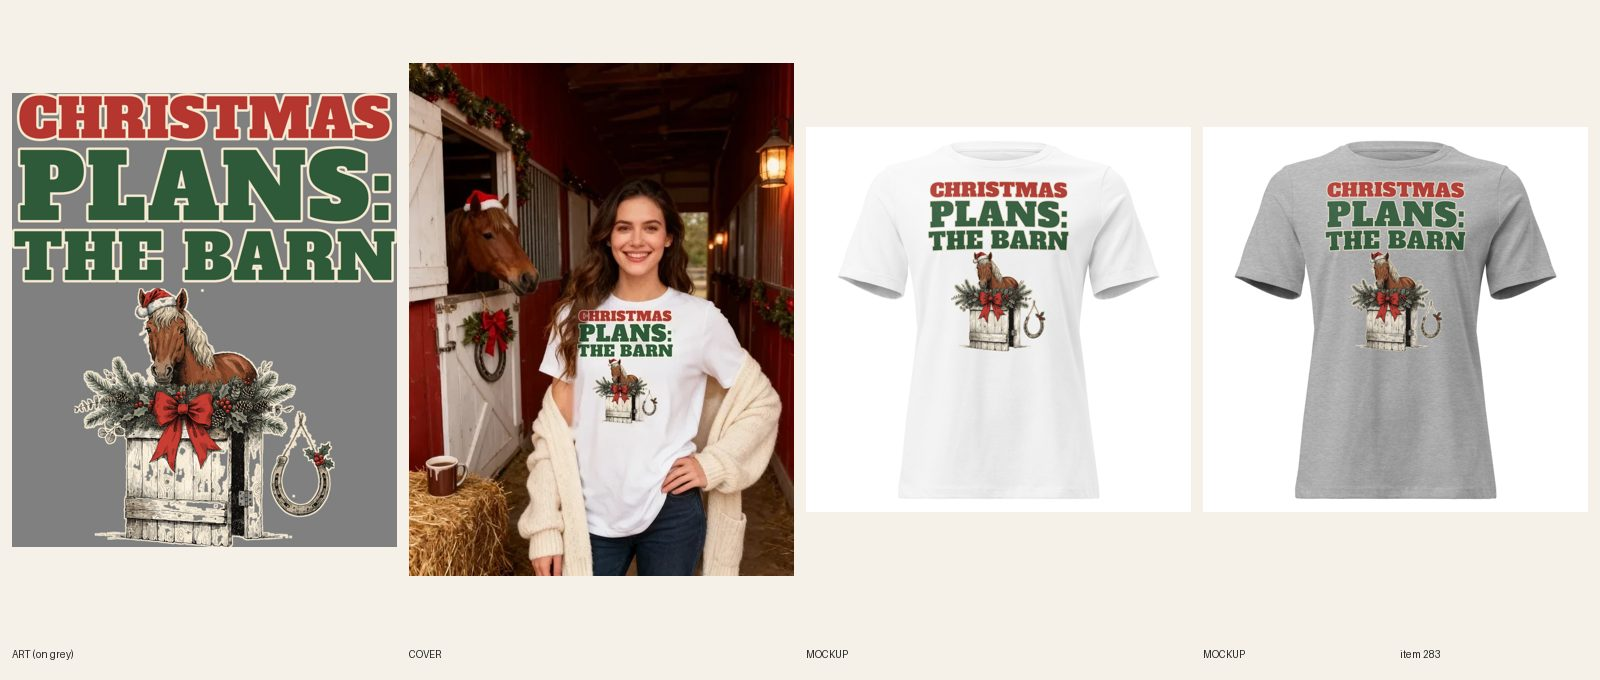
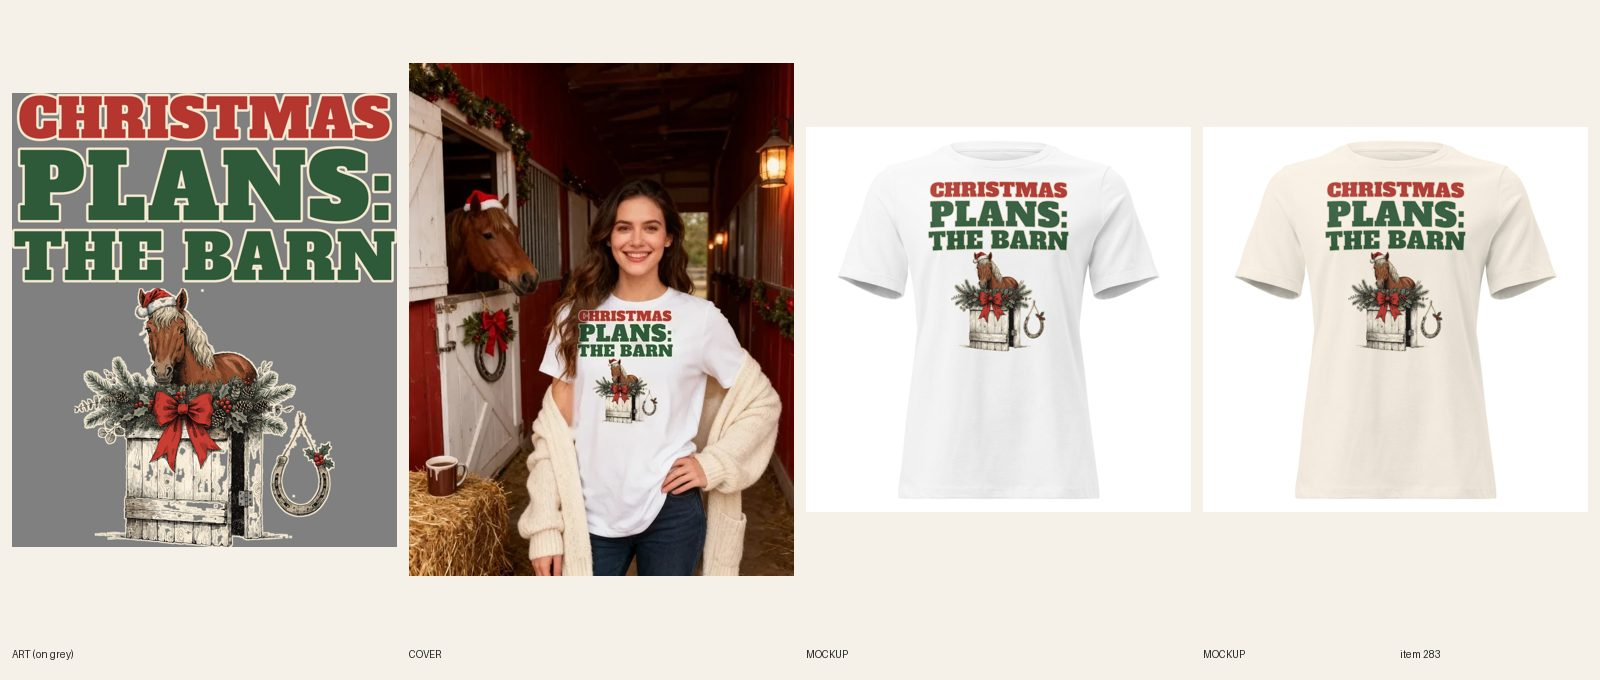
[A] review 283

Changed region(s): [[0.75, 0.1853, 0.9688, 0.7412]]

diff --git a/docs/pipeline/283-christmas-deck-the-stalls.md b/docs/pipeline/283-christmas-deck-the-stalls.md
@@ -1,4 +1,4 @@
-status: REDO
+status: REVIEW
 lane: A
 type: new
 id: 283
@@ -32,3 +32,4 @@ kd: 56
 - 2026-10-18 04:07 UTC builder [A]: BUILT. Words per the LINE REWRITE: 'Christmas Plans: The Barn'. Art: 1 Recraft call ($0.04, picture only: chestnut horse in a Santa hat over a garland-wrapped stall door with a red bow, plus a horseshoe with holly). CHRISTMAS / PLANS: / THE BARN in Fraunces Black (real font, R4.8) filled with a generated red-and-green buffalo-plaid pattern, black outline and cream edge; stacked in 3 lines after the 2-line version read too small on the 400 px phone check (7b). Print 3183x3414, Printful file 1088678550, FW 1500 (6400 print area is 1500 wide), 36/36 variants linked, back logo kept. Existing Shopify DRAFT (gid 15363038511408, BC 6400, White/Natural/Heather Stone/Athletic Heather/Pink/Heather Mauve x S-3XL, $24.99 no compare-at): copy and SEO rewritten to the real art, 'western christmas shirt' in line one, SEO and meta, FAQs 5 x 47-52 words incl. order-by Dec 8. Mockups for all 6 colors + back, each color on its own photo. Cover (reg #464 face not used, generated look logged): seedream 1 attempt had hair touching the C, so the exact print was composited from the mockup (R6.9), every word read, nothing over the print. fal ~$0.10. Audit script not runnable on drafts here; astro build passes.
 - 2026-10-18 04:20 UTC director: REDO. 1) R5.3.10 (Sam 2026-10-18): CHRISTMAS PLANS: THE BARN is filled with buffalo plaid; pattern-filled lettering on real fonts is out. Re-set all three lines in solid ink (red or pine green with the cream edge and black keyline you already have), no new art needed. 2) R5.3.8 self-check: a stray cream speck sits just above the horse's left ear on the art panel; erase it. 3) Re-make the mockups and re-composite the cover chest from the new mockup (R6.9 'after an art redo'). Copy: change 'filled with red and green buffalo plaid' to match the new lettering.
 - 2026-10-18 05:30 UTC builder [A]: R5.3.10 self-fix (rule dated 2026-10-18 landed after my build): the plaid-filled lettering is replaced with SOLID ink: CHRISTMAS red, PLANS: THE BARN pine green, Alfa Slab One with a cream keyline, 3 lines, same art. New print 3126x3688 (Printful file 1088692478), FW 1450 (area 1500x1800), sync re-link running (36). New mockups for all 6 colors + back replace the media, variants re-linked. Cover: the new print composited onto the same photo (R6.9; a leftover speck of the old print was inpainted), every word read. Copy/SEO no longer say plaid. Status stays REVIEW; the old plaid print stays linked until the re-link finishes (verify default file = 1088692478 before the director publishes).
+- 2026-10-18 06:45 UTC builder [A]: REVIEW: re-link verified 36/36 on 1088692478 (sync 482392944); solid-ink lettering, sheet remade from new print, cover and mockups.

diff --git a/docs/intake-log.md b/docs/intake-log.md
@@ -1,4 +1,5 @@
 RUNNING lane A since 2026-10-18 06:29 UTC
+2026-10-18 06:45 UTC — [A] REDO 283 back to REVIEW (36/36 verified)
 2026-10-18 06:45 UTC — [A] REDO 332 back to REVIEW
 2026-10-18 06:45 UTC — [A] REDO 254 back to REVIEW
 2026-10-18 06:45 UTC — [A] REDO 253 back to REVIEW
